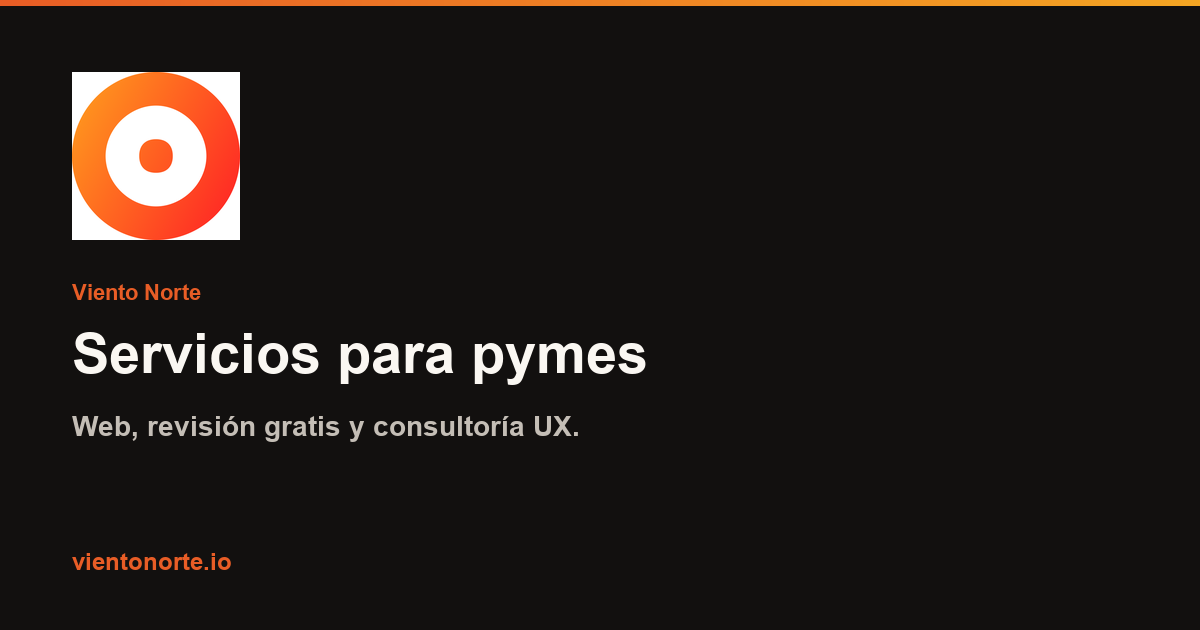
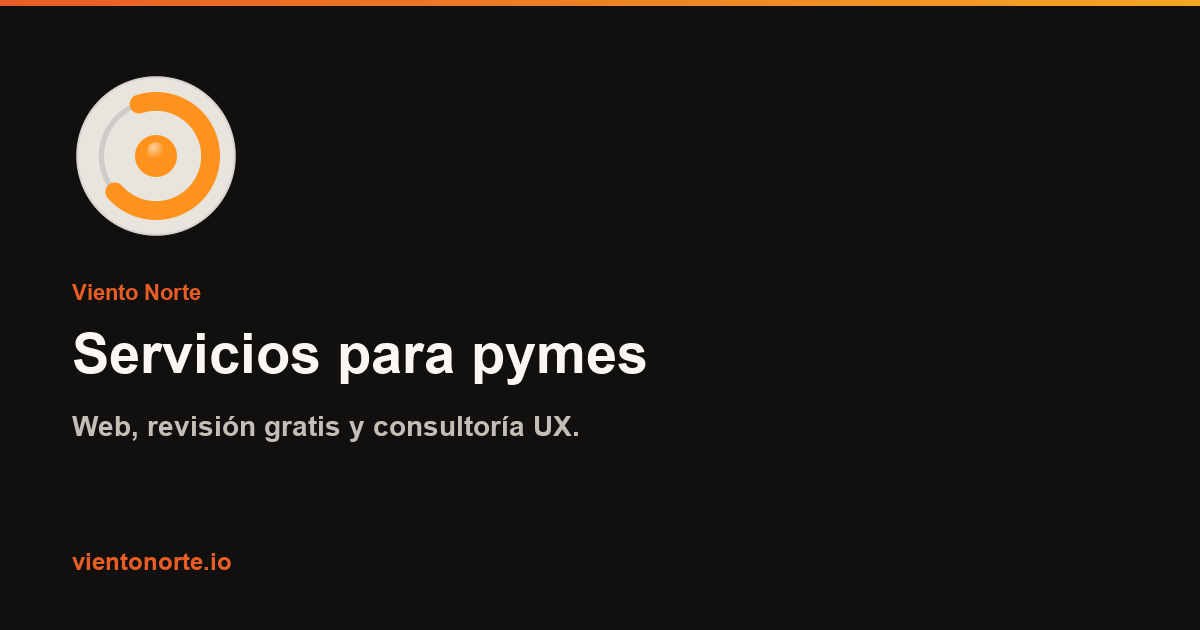
fix(branding): isologo transparente en las tarjetas OG
El recuadro blanco venía de pegar un PNG con el fondo horneado.
El generador ahora rasteriza public/favicon.svg y solo reemplaza
el slot del logo en og-servicios y og-home.

Changed region(s): [[0.0617, 0.0905, 0.2158, 0.3921]]

diff --git a/scripts/generate-og.py b/scripts/generate-og.py
@@ -1,7 +1,14 @@
 #!/usr/bin/env python3
-"""OG 1200×630 · Viento Norte — texto exacto (no Imagine)."""
+"""OG 1200×630 · Viento Norte — texto exacto (no Imagine).
+
+El isologo sale de public/favicon.svg (esquinas transparentes).
+isologo-512.png, icon-512 e og-portfolio.png traen el blanco horneado
+(alpha opaco); no se usan como marca.
+"""
 from __future__ import annotations
 
+import subprocess
+import tempfile
 from pathlib import Path
 
 from PIL import Image, ImageDraw, ImageFont, ImageFilter
@@ -9,8 +16,11 @@ from PIL import Image, ImageDraw, ImageFont, ImageFilter
 ROOT = Path(__file__).resolve().parents[1]
 OUT = ROOT / "public" / "images" / "branding"
 ISO = OUT / "isologo-512.png"
-LOGO = ISO if ISO.exists() else OUT / "og-portfolio.png"
+MARK_SVG = ROOT / "public" / "favicon.svg"
 W, H = 1200, 630
+MARK_XY = (72, 72)
+MARK_SIZE = 168
+WHITE = (255, 255, 255)
 
 FONTS = [
     "/System/Library/Fonts/Supplemental/Arial Bold.ttf",
@@ -32,6 +42,35 @@ def font(size: int, bold: bool = False) -> ImageFont.FreeTypeFont | ImageFont.Im
     return ImageFont.load_default()
 
 
+def render_mark(size: int = MARK_SIZE) -> Image.Image:
+    """Raster de favicon.svg. Aborta si el archivo no trae transparencia real."""
+    if not MARK_SVG.is_file():
+        raise SystemExit(f"no está el logo transparente: {MARK_SVG}")
+    with tempfile.TemporaryDirectory() as tmp:
+        dest = Path(tmp) / "mark.png"
+        subprocess.run(
+            [
+                "rsvg-convert",
+                "-w",
+                str(size),
+                "-h",
+                str(size),
+                "-o",
+                str(dest),
+                str(MARK_SVG),
+            ],
+            check=True,
+        )
+        mark = Image.open(dest).convert("RGBA")
+    if mark.size != (size, size):
+        raise SystemExit(f"raster inesperado {mark.size}")
+    if mark.getchannel("A").getextrema()[0] != 0:
+        raise SystemExit("el raster del logo no tiene píxeles transparentes")
+    if mark.getpixel((0, 0))[3] != 0 or mark.getpixel((size - 1, size - 1))[3] != 0:
+        raise SystemExit("las esquinas del logo no son transparentes")
+    return mark
+
+
 def gradient() -> Image.Image:
     img = Image.new("RGB", (W, H), (18, 16, 15))
     px = img.load()
@@ -48,10 +87,8 @@ def gradient() -> Image.Image:
 def draw_card(title: str, line: str, kicker: str, dest: Path) -> None:
     img = gradient()
     draw = ImageDraw.Draw(img)
-    if LOGO.exists():
-        mark = Image.open(LOGO).convert("RGBA")
-        mark.thumbnail((168, 168), Image.Resampling.LANCZOS)
-        img.paste(mark, (72, 72), mark)
+    mark = render_mark(MARK_SIZE)
+    img.paste(mark, MARK_XY, mark)
     draw.text((72, 280), kicker, fill=(232, 93, 38), font=font(22, True))
     draw.text((72, 322), title, fill=(250, 247, 242), font=font(56, True))
     draw.text((72, 410), line, fill=(196, 190, 182), font=font(28))
@@ -69,6 +106,72 @@ def draw_servicios() -> None:
         "Viento Norte",
         OUT / "og-servicios-1200.png",
     )
+
+
+def slot_is_white_box(img: Image.Image) -> bool:
+    """True si el slot 168×168 del logo es un recuadro blanco sobre fondo oscuro."""
+    if img.size != (W, H):
+        return False
+    x, y = MARK_XY
+    s = MARK_SIZE
+    px = img.load()
+    corners = (
+        px[x, y],
+        px[x + s - 1, y],
+        px[x, y + s - 1],
+        px[x + s - 1, y + s - 1],
+    )
+    if any(pixel != WHITE for pixel in corners):
+        return False
+    if px[x - 1, y + s // 2] == WHITE:
+        return False
+    return True
+
+
+def patch_white_box(path: Path) -> bool:
+    """Reemplaza solo el recuadro blanco. El texto y el resto del PNG quedan iguales."""
+    img = Image.open(path).convert("RGB")
+    if not slot_is_white_box(img):
+        print(f"skip {path.name}: sin recuadro blanco en el slot del logo")
+        return False
+    x, y = MARK_XY
+    s = MARK_SIZE
+    bg = img.getpixel((x - 1, y + s // 2))
+    patched = img.copy()
+    ImageDraw.Draw(patched).rectangle([x, y, x + s - 1, y + s - 1], fill=bg)
+    mark = render_mark(s)
+    patched.paste(mark, (x, y), mark)
+    src = img.load()
+    out = patched.load()
+    white = 0
+    for yy in range(H):
+        for xx in range(W):
+            in_slot = x <= xx < x + s and y <= yy < y + s
+            if in_slot:
+                if out[xx, yy] == WHITE:
+                    white += 1
+                continue
+            if out[xx, yy] != src[xx, yy]:
+                raise SystemExit(f"pixel fuera del logo cambió en {path.name} ({xx},{yy})")
+    if white:
+        raise SystemExit(f"{path.name} todavía tiene {white} px blancos en el logo")
+    if patched.size != (W, H):
+        raise SystemExit(f"{path.name} size {patched.size}")
+    patched.save(path, "PNG", optimize=True)
+    nbytes = path.stat().st_size
+    if nbytes >= 300 * 1024:
+        raise SystemExit(f"{path.name} pesa {nbytes} bytes (≥ 300 KB)")
+    print(f"patched {path.name} {patched.size} {nbytes} bytes bg={bg}")
+    return True
+
+
+def patch_brand_og() -> None:
+    changed = 0
+    for path in sorted(OUT.glob("og-*.png")):
+        if patch_white_box(path):
+            changed += 1
+    if changed == 0:
+        raise SystemExit("ningún og-*.png tenía el recuadro blanco")
 
 
 def main() -> None:
@@ -98,7 +201,9 @@ def main() -> None:
 if __name__ == "__main__":
     import sys
 
-    if "--only-servicios" in sys.argv:
+    if "--patch-logo" in sys.argv:
+        patch_brand_og()
+    elif "--only-servicios" in sys.argv:
         draw_servicios()
     else:
         main()
